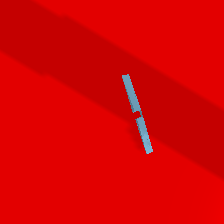
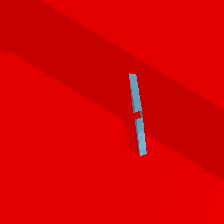
an Efficient way of moving frame

diff --git a/src/robot.py b/src/robot.py
@@ -441,22 +441,10 @@ class robot:
 
 			while(1):
 				error=init[1]-pos_frame
-				#if error is very large it will cause speed to increase and frame will topple
-				#so reduce the error by dividing by a constant
-				#different constant in different cases
-				if error>3 or error<-3:
-					error = error/4.5
-				elif error>2.2 or error<-2.2:
-					error = error/3.5
-				elif error>1.4 or error<-1.4:
-					error = error/2.5
-				elif error>0.8 or error<-0.8:
-					error = error/2
-				else:
-					error = error
 				total_error=total_error+error
 				#PID control equation for frame
 				j=kp*error+kd*(error-last_error)+ki*total_error
+				j = np.clip(j, -10, 10) # Clipping velocity to prevent frame toppling
 				p.setJointMotorControl2(self.bot, 38,p.VELOCITY_CONTROL, targetVelocity = j)
 				p.setJointMotorControl2(self.bot, 41,p.VELOCITY_CONTROL, targetVelocity = -j)
 				p.setJointMotorControl2(self.bot, 44,p.VELOCITY_CONTROL, targetVelocity = j)
